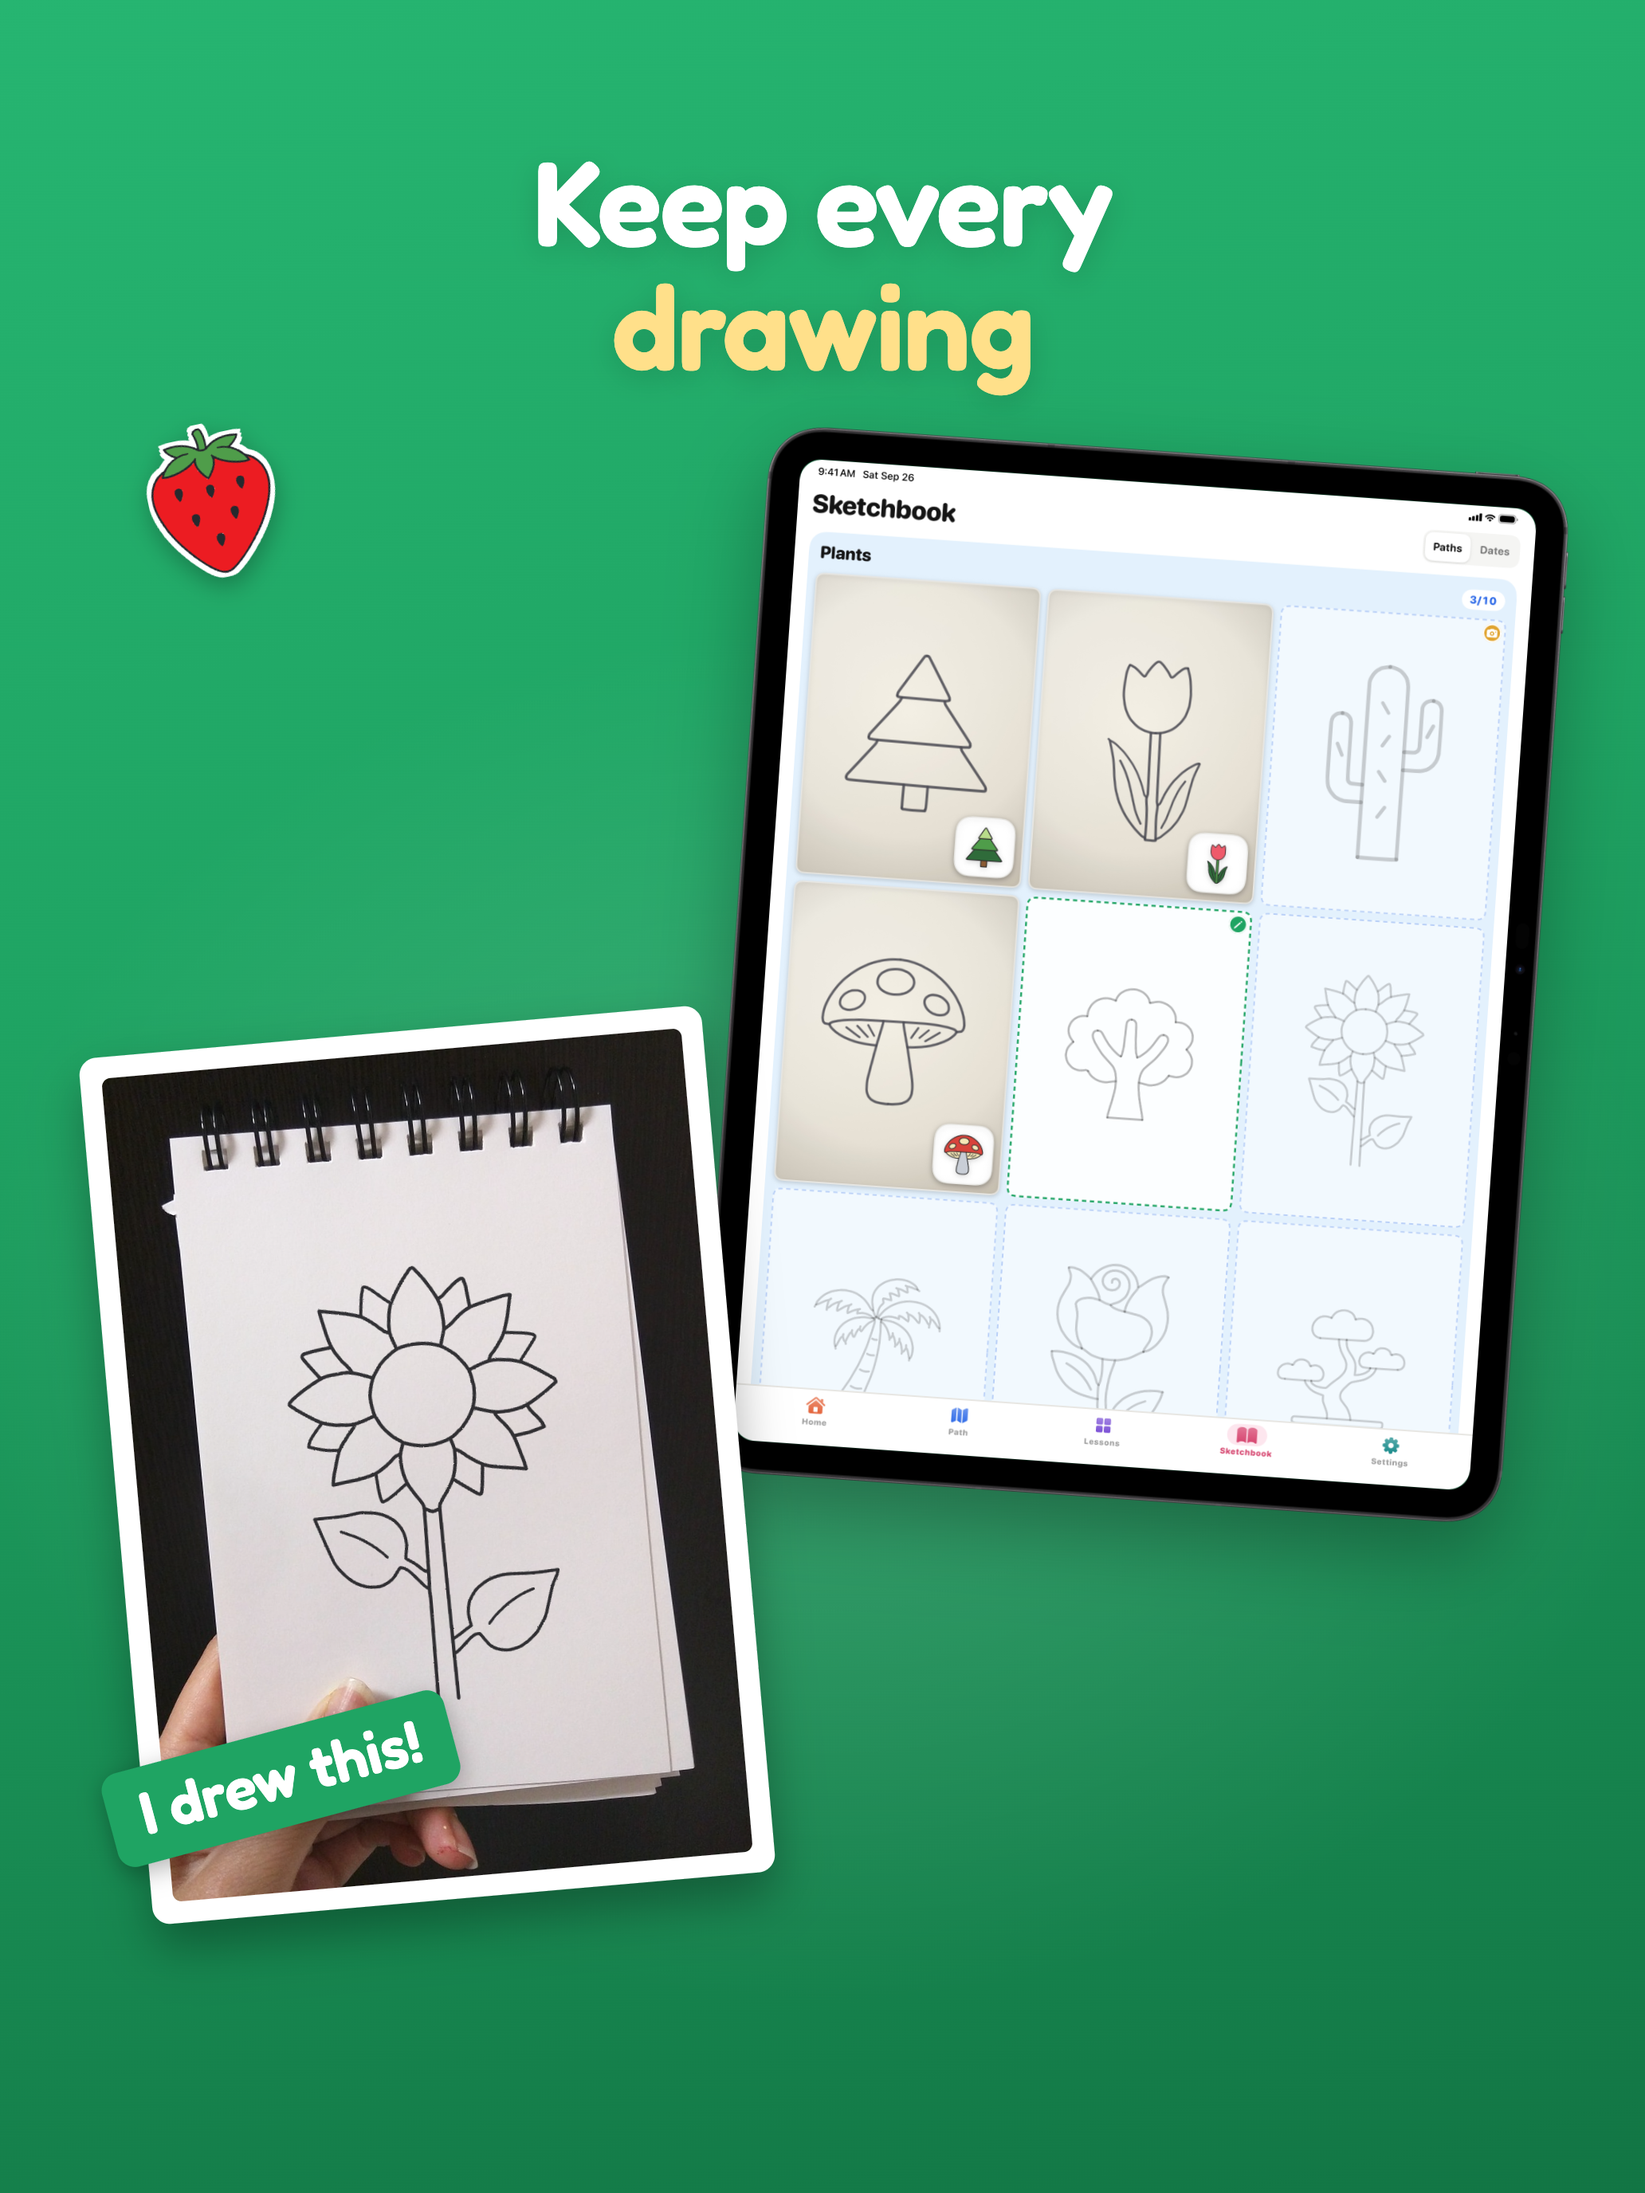
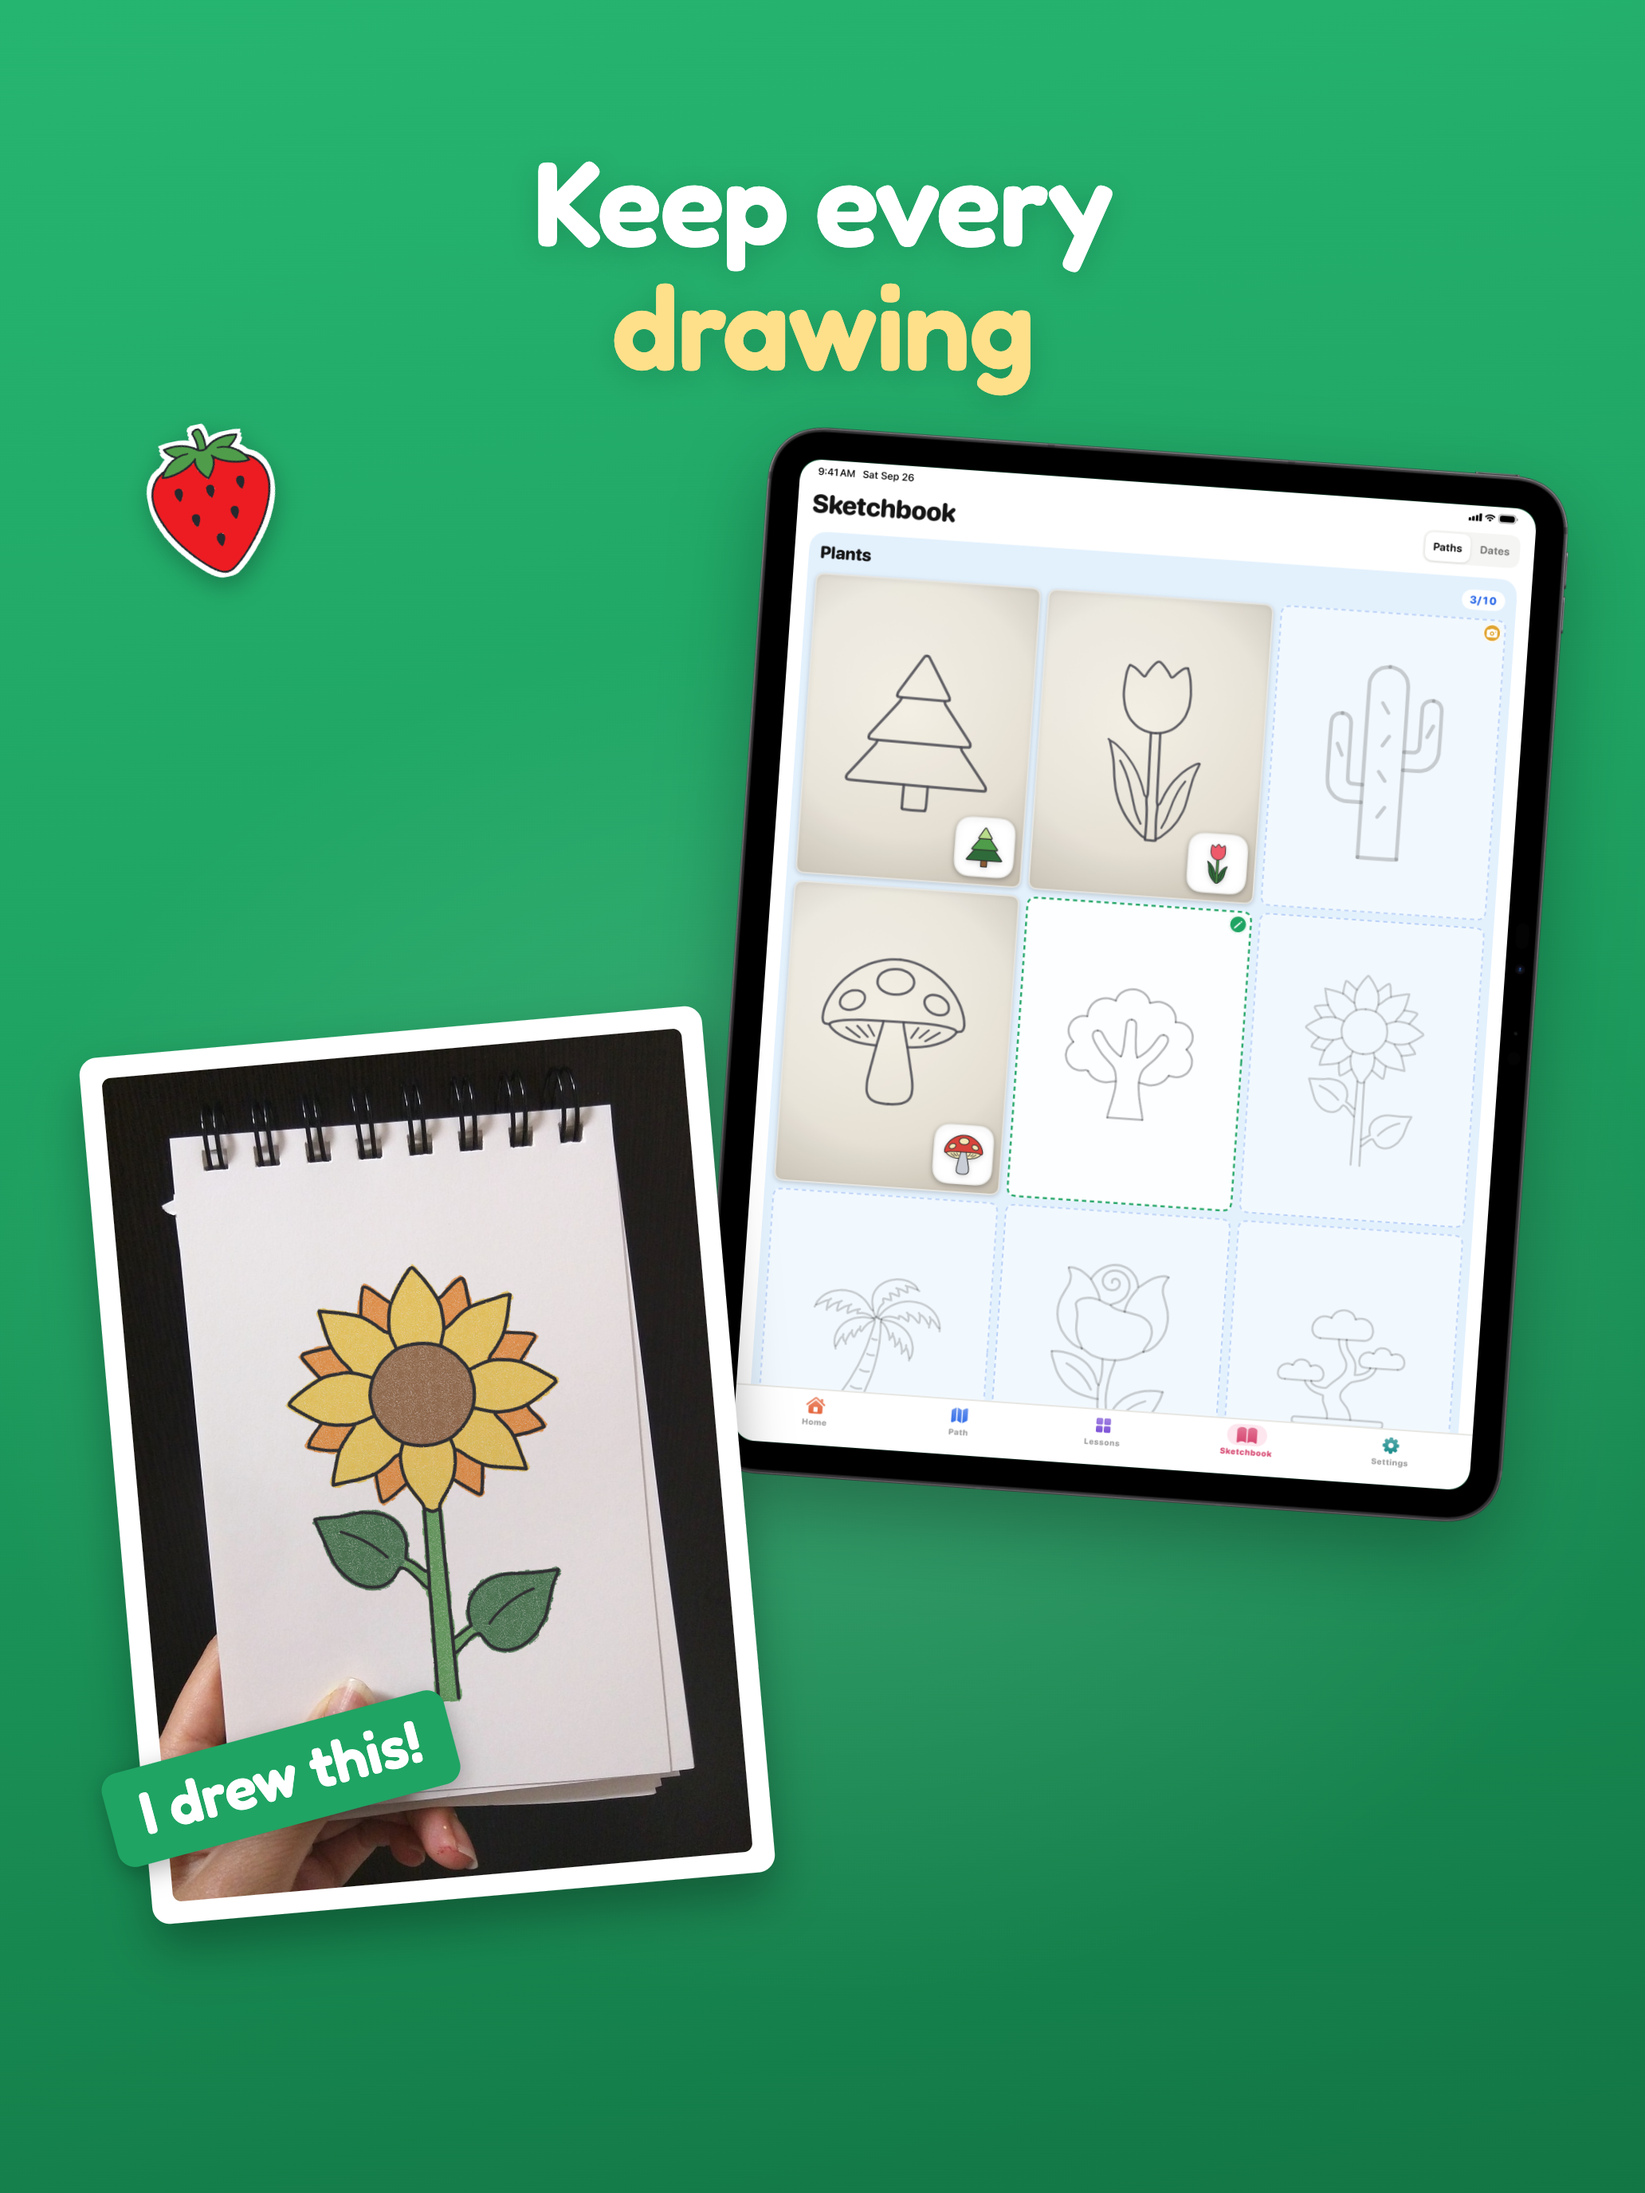
App Store art: a colored sunflower, and no counts in the captions
Shot 3's print now shows the sunflower colored in, from the lesson's own color
steps with a colored-pencil grain, so "I drew this!" shows the finished
picture. Shot 2 reads "Draw what you love" instead of "100 lessons on 10
paths": both numbers will grow, and no caption should need redrawing when they
do.

Changed region(s): [[0.186, 0.5625, 0.3411, 0.7812]]

diff --git a/docs/app-store/marketing/shots.html b/docs/app-store/marketing/shots.html
@@ -227,11 +227,11 @@
     canvas.append(node);
   }
 
-  // A lesson's pen lines (steps that draw, none that color), as the learner leaves
-  // them on paper: all of them, or with `upTo` ({ step, stroke, t }, step counted
-  // from 1 as the player shows it) the steps before it, its strokes before
-  // `stroke`, and that stroke drawn as far as `t` of its length. `end` is where the
-  // pen is, in lesson units.
+  // A lesson's pen lines, as the learner leaves them on paper: all of them, or with
+  // `upTo` ({ step, stroke, t }, step counted from 1 as the player shows it) the
+  // steps before it, its strokes before `stroke`, and that stroke drawn as far as
+  // `t` of its length. `end` is where the pen is, in lesson units. With `color`, the
+  // lesson's color steps go under the lines too, with a colored-pencil grain.
   async function lineArt(d) {
     const tutorial = await (await fetch(`../../../shared/Tutorials/${d.tutorial}.json`)).json();
     const { width, height } = tutorial.canvas;
@@ -241,7 +241,30 @@
     svg.setAttribute('width', '100%');
     svg.setAttribute('height', '100%');
     svg.innerHTML = `<filter id="pen"><feTurbulence type="fractalNoise" baseFrequency="0.9" numOctaves="2" seed="4"/>
-        <feDisplacementMap in="SourceGraphic" scale="3"/></filter>`;
+        <feDisplacementMap in="SourceGraphic" scale="3"/></filter>
+      <filter id="crayon" x="-2%" y="-2%" width="104%" height="104%">
+        <feTurbulence type="fractalNoise" baseFrequency="0.55" numOctaves="3" seed="9" result="noise"/>
+        <feColorMatrix in="noise" type="matrix" result="grain"
+          values="0 0 0 0 0  0 0 0 0 0  0 0 0 0 0  1.7 0 0 0 0.12"/>
+        <feComposite in="SourceGraphic" in2="grain" operator="in" result="grained"/>
+        <feTurbulence type="fractalNoise" baseFrequency="0.035" numOctaves="2" seed="3" result="wobble"/>
+        <feDisplacementMap in="grained" in2="wobble" scale="9"/>
+      </filter>`;
+    if (d.color) {
+      const fills = document.createElementNS(ns, 'g');
+      fills.setAttribute('filter', 'url(#crayon)');
+      fills.setAttribute('opacity', '0.9');
+      for (const step of tutorial.steps) {
+        for (const fill of step.fills ?? []) {
+          const path = document.createElementNS(ns, 'path');
+          path.setAttribute('d', fill.d);
+          path.setAttribute('fill', fill.color);
+          path.setAttribute('fill-rule', fill.fillRule ?? 'nonzero');
+          fills.append(path);
+        }
+      }
+      svg.append(fills);
+    }
     const group = document.createElementNS(ns, 'g');
     Object.entries({ fill: 'none', stroke: '#26282b', 'stroke-linecap': 'round',
                      'stroke-linejoin': 'round', filter: 'url(#pen)' })

diff --git a/docs/app-store/marketing/shots.js b/docs/app-store/marketing/shots.js
@@ -50,11 +50,12 @@ const handDrawing = {
 };
 
 // Hands holding a blank sketchpad (Pixabay 1791337, 960 x 1280): the part of the
-// photo a print shows, and where on its blank page the finished drawing sits.
+// photo a print shows, and where on its blank page the finished drawing sits, colored
+// in as the lesson's last steps leave it.
 const sketchpad = {
   photo: 'assets/photos/sketchpad-hands.jpg',
   crop: [110, 200, 760, 1080],
-  drawing: { tutorial: 'sunflower', cx: 492, cy: 760, size: 600 },
+  drawing: { tutorial: 'sunflower', cx: 492, cy: 760, size: 600, color: true },
 };
 
 export const SHOTS = [
@@ -79,7 +80,7 @@ export const SHOTS = [
   },
   {
     id: 'paths',
-    title: '<em>100 lessons</em><br>on 10 paths',
+    title: 'Draw what<br><em>you love</em>',
     capture: 'paths',
     stickers: [
       { name: 'ice-cream-cone', x: 0.0, y: 0.10, size: 0.26, rot: -12 },

diff --git a/docs/app-store/marketing/README.md b/docs/app-store/marketing/README.md
@@ -7,8 +7,8 @@ They replace the plain simulator captures in `../screenshots/`.
 | # | Headline | Screen (`-STScreen`) |
 |---|---|---|
 | 1 | Learn to draw step by step | `player-awaiting`, with a photo of a hand drawing the same palm tree on paper, the marker at the end of the leaf the phone shows |
-| 2 | 100 lessons on 10 paths | `paths` |
-| 3 | Keep every drawing | `sketchbook-filled`, with a photo of hands holding a sketchpad with the sunflower lesson drawn on it |
+| 2 | Draw what you love | `paths` |
+| 3 | Keep every drawing | `sketchbook-filled`, with a photo of hands holding a sketchpad with the sunflower lesson drawn and colored on it |
 | 4 | Finish it in full color | `player-last` |
 | 5 | Watch a line, then draw it | `preview-default` |
 | 6 | Start simple, then level up | `path-default` |
@@ -17,9 +17,10 @@ They replace the plain simulator captures in `../screenshots/`.
 
 The first three are what App Store search shows, side by side at about a third of the phone's width, so they
 say three different things (how it works, what there is to draw, what you keep) with three different drawings.
-Every lesson ends with color steps, which is what #4 claims.
+Every lesson ends with color steps, which is what #4 claims. No caption names a count of lessons or paths, since
+both will grow.
 
-Every headline is something the app does today (listing.md: 100 lessons on 10 paths, three levels, five to ten
+Every headline is something the app does today (listing.md: lessons on many subjects, three levels, five to ten
 minutes a lesson, the sketchbook). The drawings in #1 and #3 are the lessons' own pen strokes,
 read from `shared/Tutorials/`, so they are exactly what a learner draws; in #1, steps 1 to 5 and step 6's arch part-way, ending at the marker's tip (`handDrawing` and `sketchpad` in `shots.js`).
 
